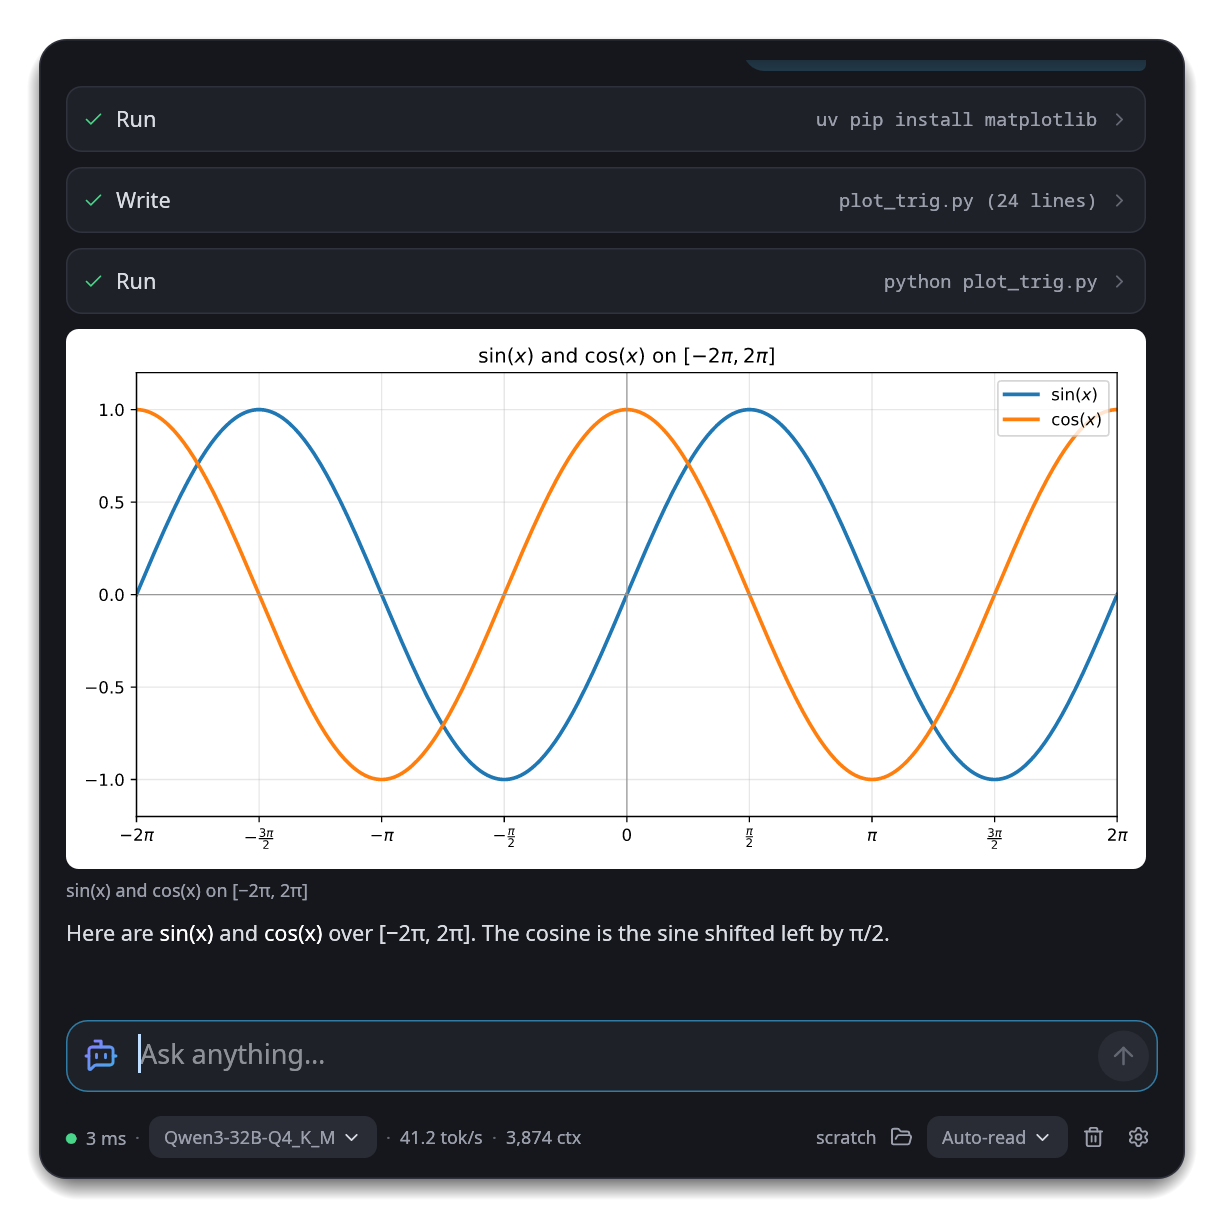
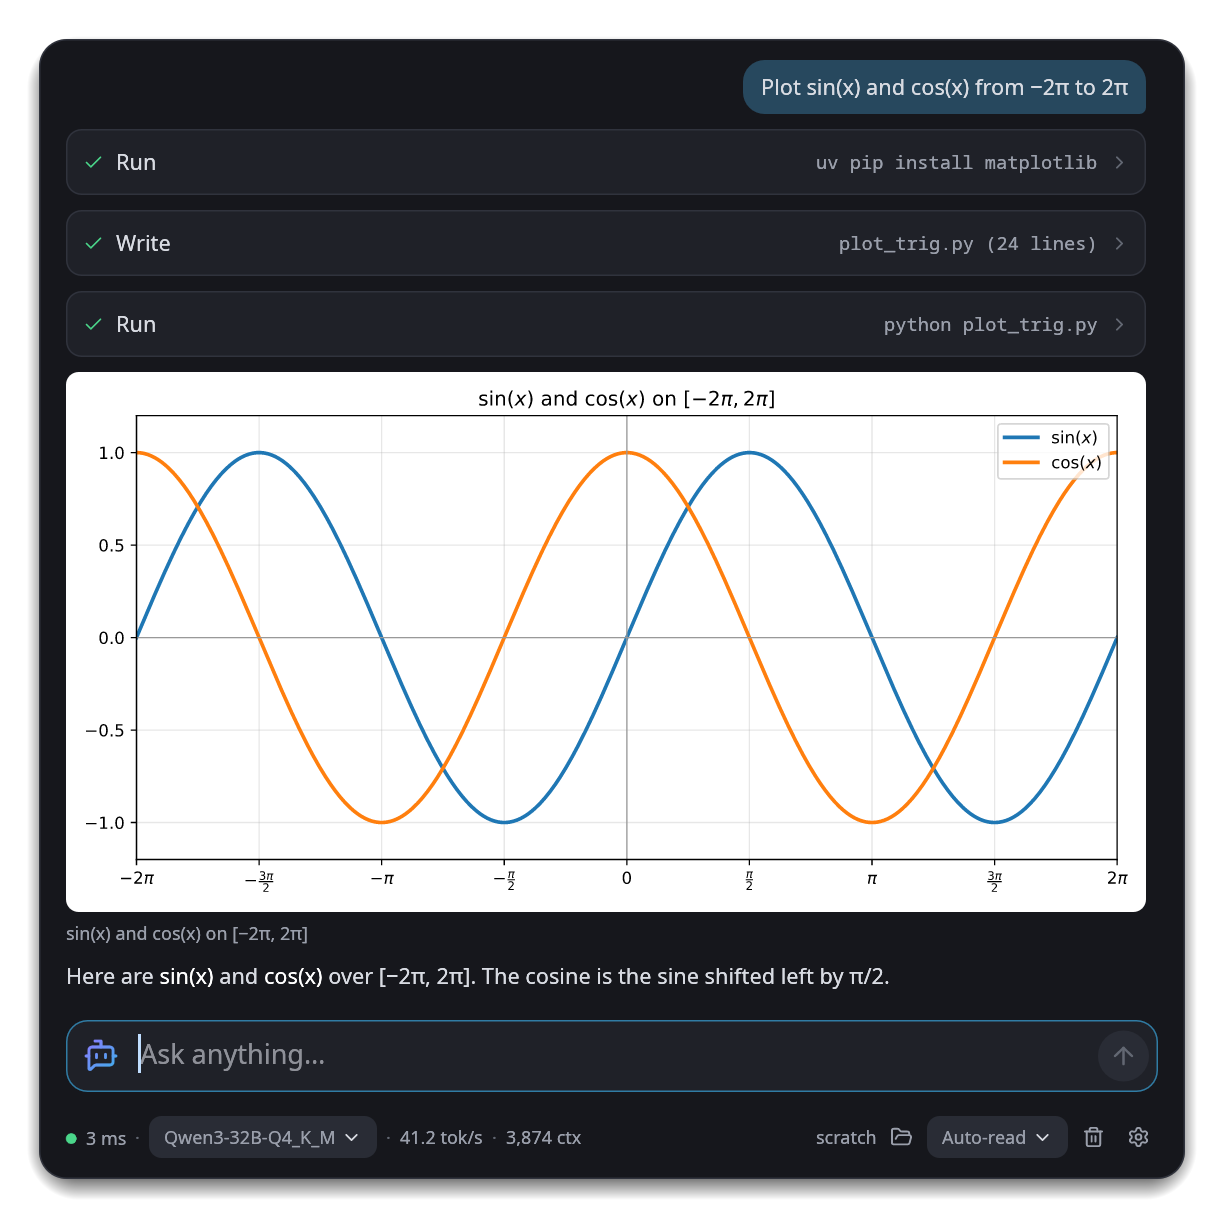
Remove the Copy button under answers
Any text in the chat can be selected and copied with Ctrl+C, so the button and
the row reserved for it go. Code blocks keep their copy icon. The README
screenshots no longer show the empty rows.

diff --git a/src/ui.rs b/src/ui.rs
@@ -692,35 +692,20 @@ impl Launcher<'_> {
             }
             return;
         }
-        let r = ui.scope(|ui| {
-            for (k, segment) in split_fences(text).into_iter().enumerate() {
-                match segment {
-                    Segment::Markdown(md) => {
-                        let (math, p) = (self.math.clone(), self.p);
-                        let render_math = move |ui: &mut egui::Ui, tex: &str, inline: bool| math.show(ui, tex, inline, p.text, p.muted);
-                        CommonMarkViewer::new().render_math_fn(Some(&render_math)).show_with_id(
-                            Id::unique(("md", idx, k)),
-                            ui,
-                            &mut self.md,
-                            &crate::math::normalize_delimiters(md),
-                        );
-                    }
-                    Segment::Code { lang, code } => self.code_snippet(ui, Id::unique(("code", idx, k)), lang, &code),
+        for (k, segment) in split_fences(text).into_iter().enumerate() {
+            match segment {
+                Segment::Markdown(md) => {
+                    let (math, p) = (self.math.clone(), self.p);
+                    let render_math = move |ui: &mut egui::Ui, tex: &str, inline: bool| math.show(ui, tex, inline, p.text, p.muted);
+                    CommonMarkViewer::new().render_math_fn(Some(&render_math)).show_with_id(
+                        Id::unique(("md", idx, k)),
+                        ui,
+                        &mut self.md,
+                        &crate::math::normalize_delimiters(md),
+                    );
                 }
+                Segment::Code { lang, code } => self.code_snippet(ui, Id::unique(("code", idx, k)), lang, &code),
             }
-        });
-        if streaming {
-            return;
-        }
-        // The action row always takes its space, so hovering never shifts the layout;
-        // it counts as part of the message, so moving onto the button keeps it visible.
-        let (row, _) = ui.allocate_exact_size(vec2(ui.available_width(), 22.0), Sense::hover());
-        let id = Id::unique(("copy", idx));
-        if self.recently_copied(ui, id) || ui.rect_contains_pointer(r.response.rect.union(row)) {
-            let rect = Rect::from_min_size(row.left_top() + vec2(-4.0, 0.0), vec2(row.width(), 22.0));
-            ui.scope_builder(UiBuilder::new().max_rect(rect).layout(Layout::left_to_right(Align::Center)), |ui| {
-                self.copy_button(ui, id, text, true, self.p.surface2);
-            });
         }
     }
 
@@ -733,14 +718,12 @@ impl Launcher<'_> {
         copied
     }
 
-    /// Lucide copy icon (optionally labelled) that turns into a green check for a moment after a click.
-    fn copy_button(&mut self, ui: &mut egui::Ui, id: Id, text: &str, label: bool, hover_bg: Color32) {
+    /// Lucide copy icon that turns into a green check for a moment after a click.
+    fn copy_button(&mut self, ui: &mut egui::Ui, id: Id, text: &str, hover_bg: Color32) {
         let p = self.p;
         let copied = self.recently_copied(ui, id);
-        let font = egui::TextStyle::Small.resolve(ui.style());
-        let galley = label.then(|| ui.painter().layout_no_wrap(if copied { "Copied" } else { "Copy" }.into(), font, Color32::PLACEHOLDER));
-        let width = 24.0 + galley.as_ref().map_or(0.0, |g| g.size().x + 6.0);
-        let (rect, resp) = ui.allocate_exact_size(vec2(width, 22.0), Sense::click());
+        let (rect, resp) = ui.allocate_exact_size(vec2(24.0, 22.0), Sense::click());
+        resp.widget_info(|| egui::WidgetInfo::labeled(egui::Role::Button, true, if copied { "Copied" } else { "Copy" }));
         let resp = resp.on_hover_cursor(egui::CursorIcon::PointingHand);
         let color = if copied {
             p.ok
@@ -752,12 +735,7 @@ impl Launcher<'_> {
         if resp.hovered() {
             ui.painter().rect_filled(rect, 6.0, hover_bg);
         }
-        let icon = Rect::from_center_size(pos2(rect.left() + 12.0, rect.center().y), Vec2::splat(14.0));
-        icons::paint(ui, icon, if copied { Icon::Check } else { Icon::Copy }, color);
-        if let Some(g) = galley {
-            let y = rect.center().y - g.size().y / 2.0;
-            ui.painter().galley(pos2(rect.left() + 24.0, y), g, color);
-        }
+        icons::paint(ui, Rect::from_center_size(rect.center(), Vec2::splat(14.0)), if copied { Icon::Check } else { Icon::Copy }, color);
         if resp.clicked() {
             ui.ctx().copy_text(text.to_string());
             self.copied = Some((id, ui.input(|i| i.time)));
@@ -778,7 +756,7 @@ impl Launcher<'_> {
                 ui.horizontal(|ui| {
                     ui.label(RichText::new(if lang.is_empty() { "code" } else { lang }).small().color(p.faint));
                     ui.with_layout(Layout::right_to_left(Align::Center), |ui| {
-                        self.copy_button(ui, id, code, false, p.surface);
+                        self.copy_button(ui, id, code, p.surface);
                     });
                 });
                 let theme = egui_extras::syntax_highlighting::CodeTheme::from_style(ui.style());
@@ -1349,7 +1327,17 @@ Unsupported LaTeX stays readable: $\frac{1}{$.";
         if let Some(dir) = path.parent() {
             std::fs::create_dir_all(dir).unwrap();
         }
-        let tmp = std::env::temp_dir().join(format!("lokai-snap-{}-{}", std::process::id(), path.display().to_string().replace('/', "_")));
+        let (mut harness, tmp) = harness(&path.display().to_string(), view, fill);
+        harness.run_steps(6);
+        let image = harness.render().expect("render");
+        image.save(path).unwrap();
+        let _ = std::fs::remove_dir_all(&tmp);
+    }
+
+    /// The launcher in a test harness, for `view` of a clean session filled in by `fill`.
+    /// Returns it with the temporary directory that holds its config and data.
+    fn harness(name: &str, view: View, fill: impl Fn(&mut State)) -> (Harness<'static>, PathBuf) {
+        let tmp = std::env::temp_dir().join(format!("lokai-snap-{}-{}", std::process::id(), name.replace('/', "_")));
         std::fs::create_dir_all(tmp.join("config/lokai")).unwrap();
         std::fs::write(tmp.join("config/lokai/config.toml"), "server_url = \"http://127.0.0.1:1\"\n").unwrap();
         // SAFETY: set before any other thread reads them; keeps the real config untouched.
@@ -1374,15 +1362,15 @@ Unsupported LaTeX stays readable: $\frac{1}{$.";
             st.models = vec![st.config.model.clone(), "Qwen3-Coder-30B-A3B".into()];
             fill(&mut st);
         }
-        let (_tx, rx) = mpsc::channel();
+        let rx: &'static mpsc::Receiver<Cmd> = Box::leak(Box::new(mpsc::channel().1));
         let height = panel_height(view, &core.lock());
         let width = 780.0;
         let mut app: Option<Launcher> = None;
-        let mut harness = Harness::builder()
+        let harness = Harness::builder()
             .with_size(vec2(width + 2.0 * MARGIN, height + 2.0 * MARGIN))
             .with_pixels_per_point(1.5)
             .with_accessibility_check(false)
-            .build_ui(|ui| {
+            .build_ui(move |ui| {
                 let app = app.get_or_insert_with(|| {
                     let ctx = ui.ctx();
                     theme::install_fonts(ctx);
@@ -1396,7 +1384,7 @@ Unsupported LaTeX stays readable: $\frac{1}{$.";
                     );
                     let mut l = Launcher {
                         core: core.clone(),
-                        rx: &rx,
+                        rx,
                         outcome: Box::leak(Box::new(Outcome::Closed)),
                         p,
                         view: View::Chat,
@@ -1428,10 +1416,7 @@ Unsupported LaTeX stays readable: $\frac{1}{$.";
                 });
                 app.draw(ui);
             });
-        harness.run_steps(6);
-        let image = harness.render().expect("render");
-        image.save(path).unwrap();
-        let _ = std::fs::remove_dir_all(&tmp);
+        (harness, tmp)
     }
 
     /// The README screenshots: `just screenshot` writes assets/screenshot.png and screenshot-plot.png.
@@ -1472,7 +1457,7 @@ Unsupported LaTeX stays readable: $\frac{1}{$.";
                     status: ToolStatus::Approval,
                 }),
             ];
-            st.config.height = 712.0;
+            st.config.height = 660.0;
             st.busy = true;
             st.tps = 38.4;
             st.context_tokens = 2914;
@@ -1491,11 +1476,7 @@ Unsupported LaTeX stays readable: $\frac{1}{$.";
         render("math", View::Chat, |st| {
             st.items = vec![
                 Item::User { text: "Explain Euler's identity and the Basel problem".into() },
-                Item::Assistant {
-                    text: MATH_ANSWER.into(),
-                    reasoning: String::new(),
-                    streaming: false,
-                },
+                Item::Assistant { text: MATH_ANSWER.into(), reasoning: String::new(), streaming: false },
             ];
         });
         render("settings-full", View::Settings, |st| {
